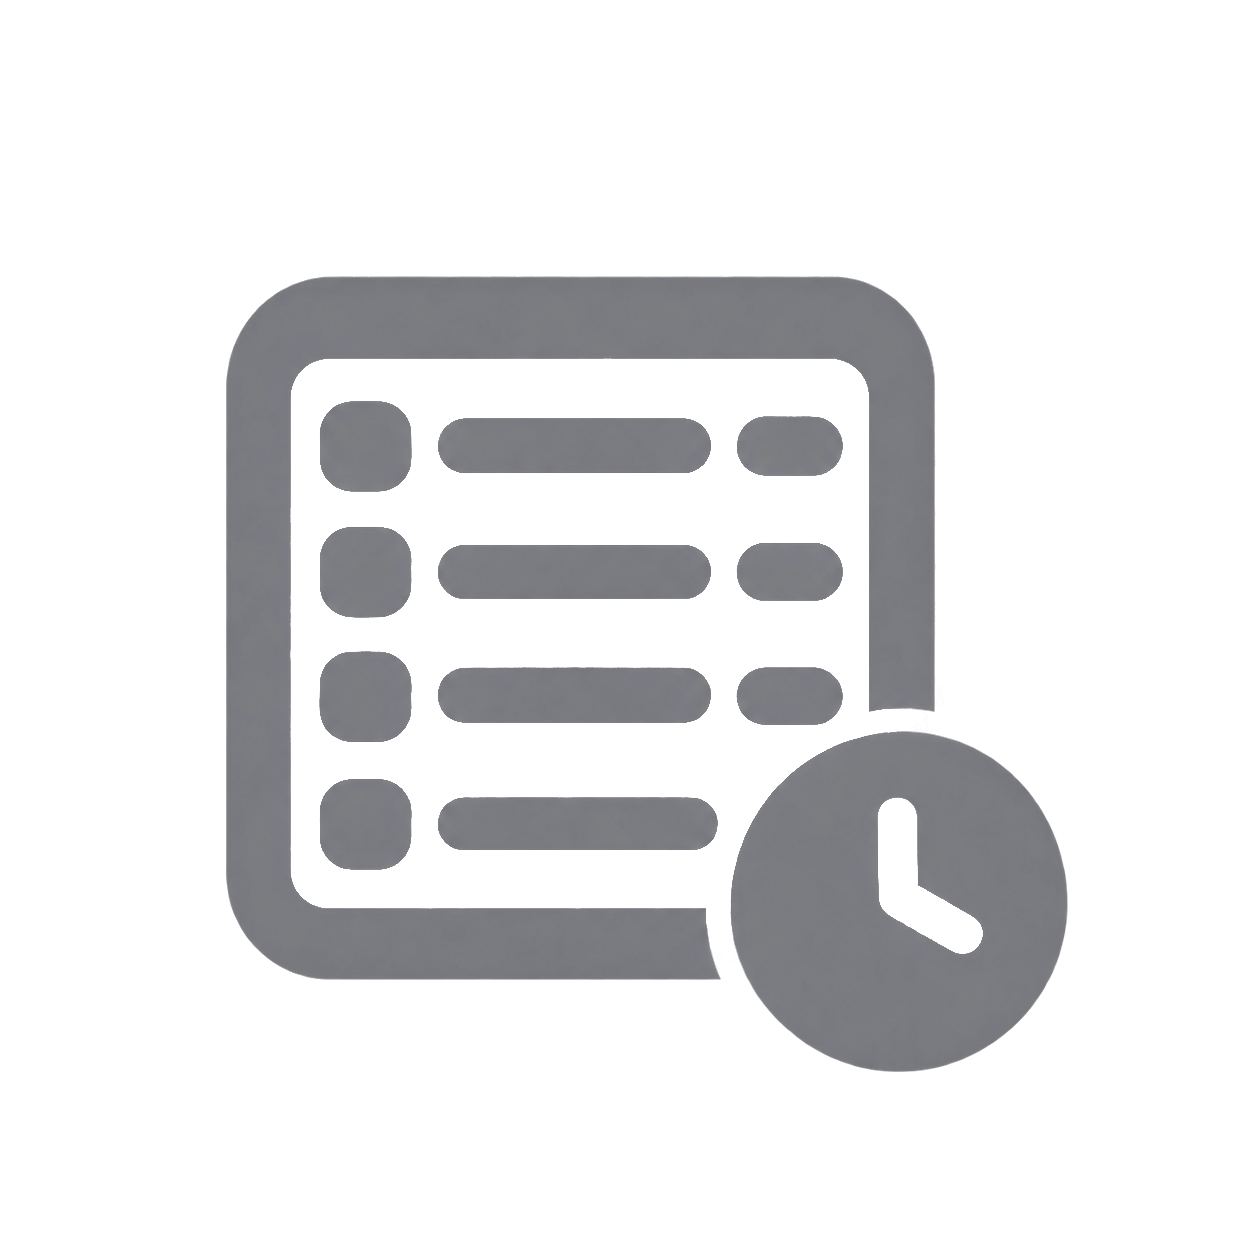
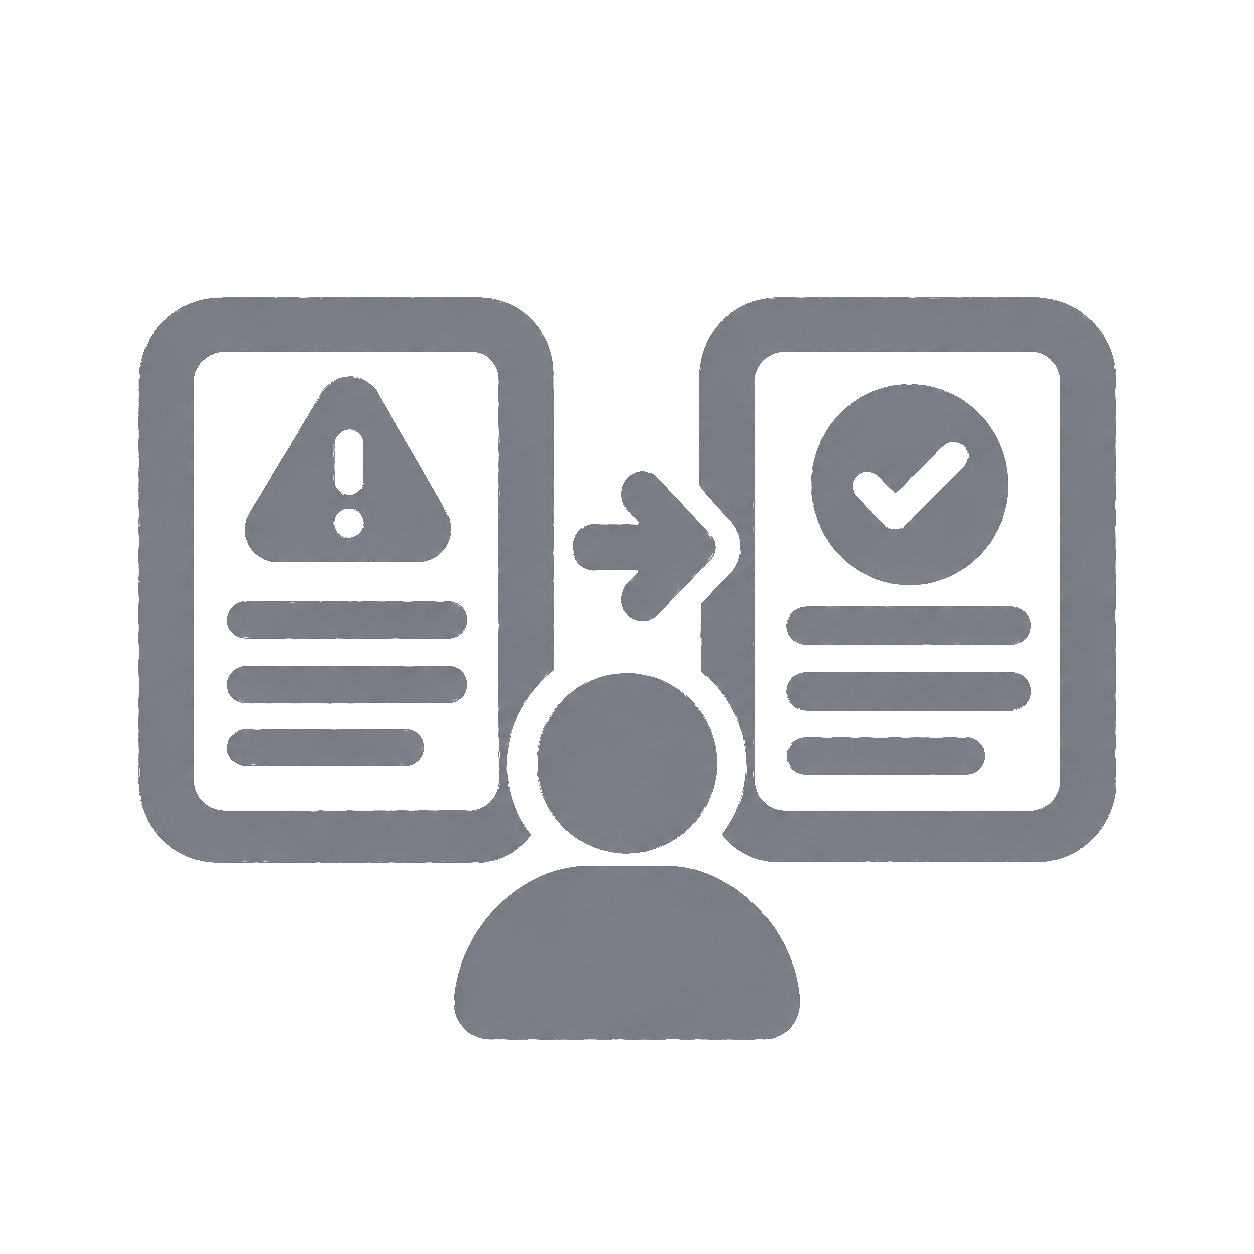
trying to fix the 'can not edit daily brief' 1

Changed region(s): [[0.0933, 0.2177, 0.9019, 0.8708]]

diff --git a/app/(dashboard)/daily-brief/page.tsx b/app/(dashboard)/daily-brief/page.tsx
@@ -13,6 +13,8 @@ import SmallLoader from '@/app/src/components/SmallLoader';
 import { useSearchParams } from 'next/navigation';
 import { randomInt } from 'crypto';
 import capitalize from '@/lib/text';
+import { isSameDay } from "date-fns";
+
 
 
 export default function DailyBrief() {
@@ -20,12 +22,8 @@ export default function DailyBrief() {
   const today = new Date();
 
   const noAccessEdit = (b: SavedBrief) => { 
-    const briefDate = new Date(b.date);
+    const isToday = isSameDay(new Date(b.date), new Date());
 
-    const isToday =
-      briefDate.getFullYear() === today.getFullYear() &&
-      briefDate.getMonth() === today.getMonth() &&
-      briefDate.getDate() === today.getDate();
     return (user?.role === "manager" || user?.id !== b.lead_id || b.freezed === true || !isToday) || user?.permissions.update_brief === false 
   };
   const [showSubmit, setShowSubmit] = useState(false)

diff --git a/app/src/components/css/Sidebar.css b/app/src/components/css/Sidebar.css
@@ -101,6 +101,9 @@
 [data-img="production-dashboard"]{
     background-image: url('../../../../public/production_dashboard_0.svg');
 }
+[data-img="action-tracker"]{
+    background-image: url('../../../../public/action_tracker_0.png');
+}
 
 
 div:has(> [data-img="settings"]){
@@ -131,6 +134,10 @@ div:has(> [data-img="settings"]){
 [data-img="production-dashboard"].selected{
     background-image: url('../../../../public/production_dashboard_1.svg');
 }
+[data-img="action-tracker"].selected{
+    background-image: url('../../../../public/action_tracker_1.png');
+}
+
 
 [data-img="photo_sidebar"]{
     background-image: url('../../../../public/photo_sidebar.svg');

diff --git a/app/src/components/Sidebar.tsx b/app/src/components/Sidebar.tsx
@@ -15,6 +15,7 @@ export default function Sidebar({ user }: { user: User}) {
     {href: 'reports', text: 'Reports', permission_name: 'see_reports_page'},
     {href: 'teams-and-roles', text: 'Teams & Roles', permission_name: 'see_team_roles'},
     {href: 'production-dashboard', text: 'Production Dashboard', permission_name: 'see_production_dashboard'},
+    // {href: 'action-tracker', text: 'Action Tracker', permission_name: 'see_profile_settings'},
     {href: 'settings', text: 'Settings', permission_name: 'see_profile_settings'},
   ]
 

diff --git a/app/api/importCSV/route.ts b/app/api/importCSV/route.ts
@@ -8,7 +8,7 @@ import { parse as parse_date, format } from "date-fns";
 export async function POST() {
     // return NextResponse.json({}, {status: 404})
     try {
-        const filePath = path.join(process.cwd(), "public", "data_18.csv");
+        const filePath = path.join(process.cwd(), "public", "data_19.csv");
 
         const file = await fs.readFile(filePath, "utf-8");
 

diff --git a/app/(dashboard)/action-tracker/page.tsx b/app/(dashboard)/action-tracker/page.tsx
@@ -1,0 +1,7 @@
+export default function ActionTracker () {
+    return (
+        <div className="action-tracker">
+            ACTION TRACKER
+        </div>
+    )
+}
